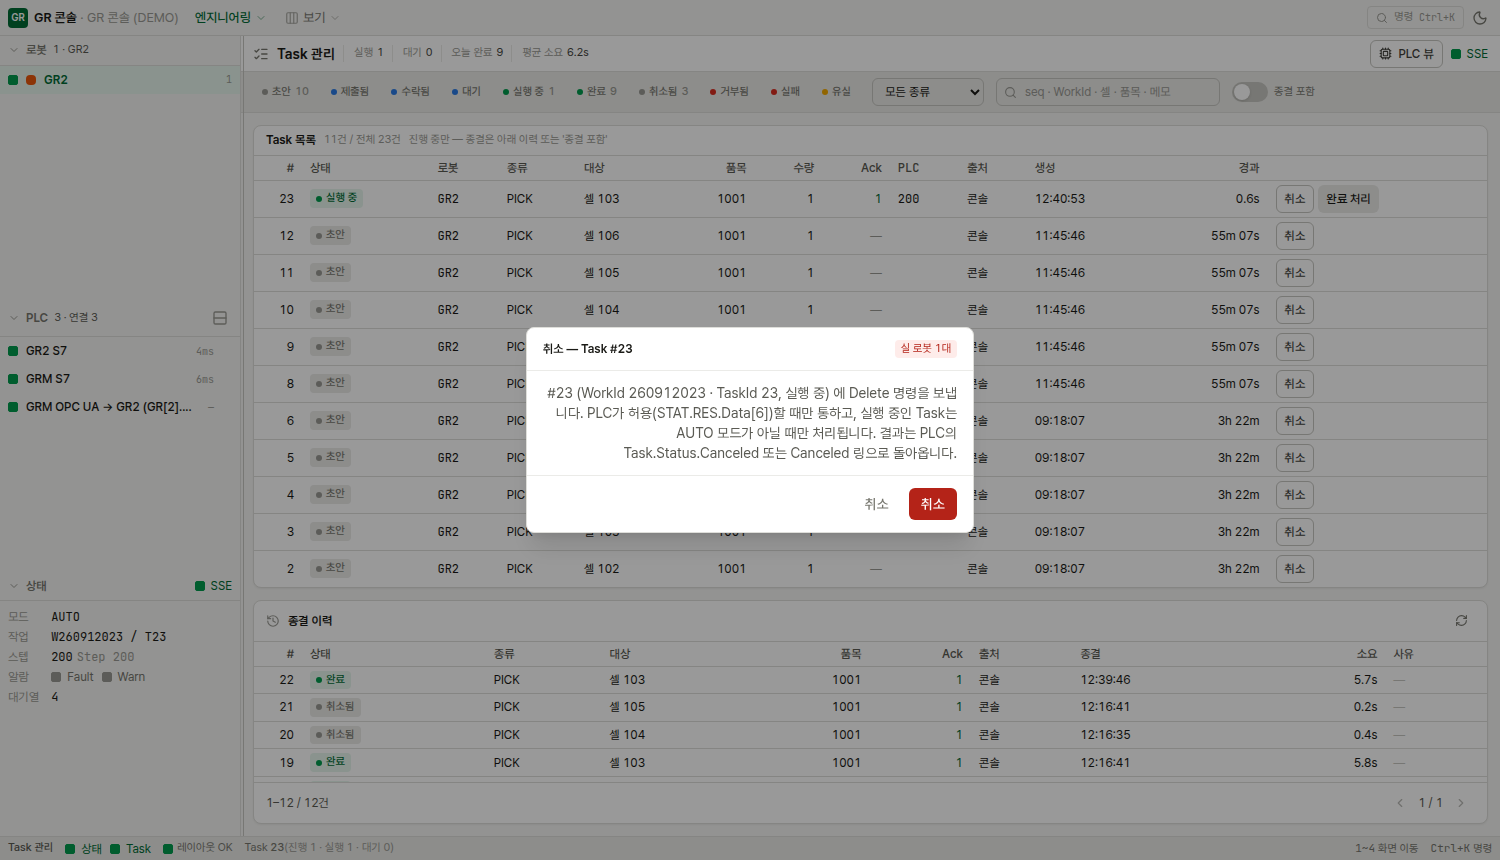
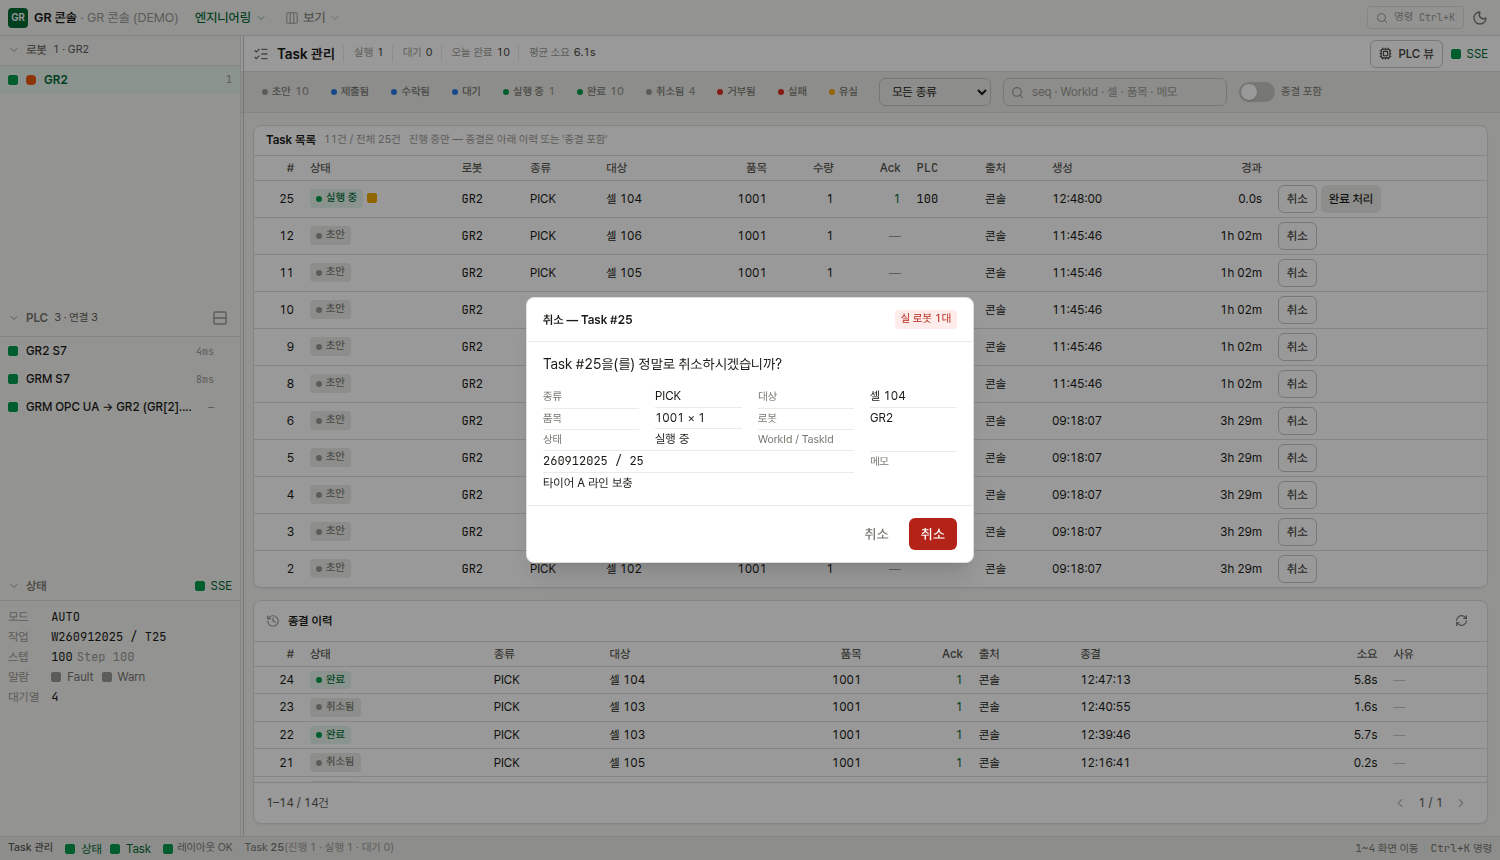
확인 대화상자 — 질문 한 줄 + 어떤 Task인지 알아볼 라벨+값
안내문("PLC가 허용할 때만… AUTO 모드가 아닐 때만…")을 뺐다 — 매번 읽지 않는 규칙 설명이
진짜 정보(무엇을·되돌릴 수 있나)를 묻는다. 막히면 서버가 409로 이유를 말하고 토스트가
보여 준다. 대신 번호만 있던 질문 아래에 종류·대상·품목·로봇·상태·WorkId/TaskId·메모를
FieldList로 붙였다 — 작업자가 무슨 작업인지 알아보고 누른다.

- 텍스트가 오른쪽에 붙던 것: 표의 액션 열(text-right) 안에서 열린 대화상자가 정렬을
  물려받았다. ConfirmDialog가 text-left를 갖는다(어디서 열렸든 제 정렬).
- DESIGN.md 자리 표에 "확인 대화상자" 줄(질문 한 줄 + 대상 식별, 규칙 안내문 금지),
  ui-ux-plan 10차.

Claude-Session: https://claude.ai/code/session_011b3u36fz4wQ2544xtQUSrM

diff --git a/apps/gr-web/src/components/taskmgr/TaskActions.tsx b/apps/gr-web/src/components/taskmgr/TaskActions.tsx
@@ -4,6 +4,7 @@ import { useState } from 'react'
 import { Ban, CheckCircle2, RotateCw, Send, Trash2, XOctagon } from 'lucide-react'
 import { Button } from '../../lib/ui/Button'
 import { ConfirmDialog } from '../../lib/ui/ConfirmDialog'
+import { FieldList, type FieldItem } from '../../lib/ui/FieldList'
 import { Input } from '../../lib/ui/Input'
 import { runAction } from '../../lib/task/actions'
 import {
@@ -11,6 +12,8 @@ import {
   STATE_LABEL,
   allowedActions,
   isRobotAction,
+  targetOf,
+  typeName,
   type TaskAction,
 } from '../../lib/task/state'
 import type { Task } from '../../lib/types'
@@ -39,24 +42,57 @@ const ICON: Record<TaskAction, React.ReactNode> = {
 
 const DANGER: ReadonlySet<TaskAction> = new Set<TaskAction>(['cancel', 'fail', 'delete'])
 
+// 확인은 **질문 한 줄**이다. PLC 허용 조건·AUTO 모드 같은 규칙은 여기 적지 않는다 — 막히면 서버가
+// 그 이유를 토스트로 말하고, 매번 읽지 않는 안내문은 진짜 경고(되돌릴 수 없음)까지 묻어 버린다.
 function describe(action: TaskAction, task: Task): string {
-  const who = `#${task.seq} (WorkId ${task.work_id} · TaskId ${task.task_id}, ${STATE_LABEL[task.state]})`
+  const who = `Task #${task.seq}`
   switch (action) {
     case 'submit':
-      return `${who} 을(를) PLC에 제출합니다.`
+      return `${who}을(를) PLC에 제출하시겠습니까?`
     case 'cancel':
       return task.state === 'draft'
-        ? `${who} 초안을 폐기합니다.`
-        : `${who} 에 Delete 명령을 보냅니다. PLC가 허용(STAT.RES.Data[6])할 때만 통하고, 실행 중인 Task는 AUTO 모드가 아닐 때만 처리됩니다. 결과는 PLC의 Task.Status.Canceled 또는 Canceled 링으로 돌아옵니다.`
+        ? `${who} 초안을 폐기하시겠습니까?`
+        : `${who}을(를) 정말로 취소하시겠습니까?`
     case 'complete':
-      return `${who} 에 Complete 명령을 보내 강제로 완료 처리합니다. PLC가 허용(STAT.RES.Data[5])할 때만 통합니다.`
+      return `${who}을(를) 강제로 완료 처리하시겠습니까?`
     case 'resubmit':
-      return `${who} 과 같은 내용으로 새 Task를 만들어 제출합니다(WorkId/TaskId는 새로 받습니다).`
+      return `${who}과(와) 같은 내용으로 다시 제출하시겠습니까?`
     case 'fail':
-      return `${who} 을(를) 콘솔 원장에서 실패로 표시합니다. PLC에는 아무것도 보내지 않습니다.`
+      return `${who}을(를) 실패로 표시하시겠습니까?`
     case 'delete':
-      return `${who} 기록을 원장에서 지웁니다. 되돌릴 수 없습니다.`
+      return `${who} 기록을 정말로 삭제하시겠습니까? 되돌릴 수 없습니다.`
   }
+}
+
+/**
+ * 어떤 Task인지 알아보는 라벨+값 짝 — 질문 한 줄 아래에 선다. 번호만으로는 작업자가 "무슨 작업"인지
+ * 모른다(같은 셀·같은 품목의 Task가 열 개 줄지어 있다). 상세와 같은 말(종류·대상·품목·로봇)을 쓴다.
+ */
+function identity(task: Task): FieldItem[] {
+  const t = targetOf(task)
+  const item = task.plc_task?.Item
+  const req = task.request
+  return [
+    { label: '종류', value: typeName(task.plc_task?.TaskType) || req?.type?.toUpperCase() || null },
+    { label: '대상', value: t ? `${t.kind === 'station' ? '스테이션' : '셀'} ${t.id}` : null },
+    {
+      label: '품목',
+      value: item?.Code
+        ? `${item.Code} × ${item.Count ?? 1}`
+        : req?.item_code
+          ? `${req.item_code} × ${req.count ?? 1}`
+          : null,
+    },
+    { label: '로봇', value: task.plc_name ?? null },
+    { label: '상태', value: STATE_LABEL[task.state] },
+    {
+      label: 'WorkId / TaskId',
+      value: task.work_id ? `${task.work_id} / ${task.task_id}` : null,
+      mono: true,
+      wide: true,
+    },
+    ...(req?.note ? [{ label: '메모', value: req.note, wide: true } as FieldItem] : []),
+  ]
 }
 
 export function TaskActions({
@@ -116,7 +152,8 @@ export function TaskActions({
           confirmLabel={ACTION_LABEL[pending]}
           onConfirm={() => void run(pending)}
         >
-          <p className="m-0">{describe(pending, task)}</p>
+          <p className="m-0 text-content-primary">{describe(pending, task)}</p>
+          <FieldList className="mt-3" items={identity(task)} columns={2} labelWidth={96} dense />
           {pending === 'fail' ? (
             <Input
               className="mt-3"

diff --git a/apps/gr-web/src/lib/ui/ConfirmDialog.tsx b/apps/gr-web/src/lib/ui/ConfirmDialog.tsx
@@ -88,7 +88,9 @@ export function ConfirmDialog({
       {/* 포커스 트랩 — 첫 포커스는 **취소**(안전한 쪽)다. 확인에 주면 Enter 연타로 파괴적 조작이 통과한다. */}
       <div
         ref={box}
-        className="relative w-full max-w-md rounded-lg border border-line-default bg-surface-panel shadow-xl"
+        // `text-left`: 대화상자는 어디서 열렸든 제 정렬을 가진다 — 표의 액션 열(`text-right`) 안에서
+        // 열리면 물려받은 정렬로 질문이 오른쪽에 붙는다.
+        className="relative w-full max-w-md rounded-lg border border-line-default bg-surface-panel text-left shadow-xl"
         role="dialog"
         aria-modal="true"
         aria-label={title}

diff --git a/docs/DESIGN.md b/docs/DESIGN.md
@@ -273,6 +273,7 @@ MANUAL`). 회색 문장으로 풀어 쓰면 필요한 항목 하나를 뽑으려
 | **목록 행**(사이드바 · 패널) | 점(앞) · 이름 · 숫자(뒤, 고정폭) | 캡슐 · 개수 알약 · 두 번째 색 |
 | **상태바** | 전역 상태 · 집계 · 단축키 힌트 | 조작 — **예외 하나**: 보이는 패널을 누르면 배치 명령이 열린다 |
 | **오버레이**(모달·팝오버·토스트) | 한 번에 한 가지 일 | 두 번째 모달 · 실시간 값 · 스크롤되는 폼 |
+| **확인 대화상자**(`ConfirmDialog`) | **질문 한 줄**("정말로 취소하시겠습니까?") + 대상을 알아볼 라벨+값 짝(종류·대상·품목·로봇·상태·Id) + 되돌릴 수 없으면 그 한마디 | 규칙·조건 안내문(PLC 허용 조건 · 모드 제약 — 막히면 서버가 이유를 말한다) · 오른쪽 정렬 · 번호만 있는 질문 |
 | **빈 영역** | `EmptyState`(아이콘 1 + 한 줄 + 다음 행동) | 로고 · 일러스트 · 그라디언트 · "환영합니다" |
 
 새 요소를 어디에 둘지 모르겠으면 그건 **아직 자리가 없다는 뜻**이다. 억지로 끼우지 말고 이 표에

diff --git a/docs/screenshots/README.md b/docs/screenshots/README.md
@@ -72,5 +72,5 @@
 | ![](51_cancel_timeline.png) | Task 취소 — 이력이 `delete requested`(콘솔) → `canceled on PLC (console request)`(PLC)로 읽힌다. PLC 자발 취소는 `(console request)`가 없다 |
 | ![](52_plc_view_terminal_bits.png) | PLC 뷰 — `Task.Status.Complete`·`Canceled` 비트가 보인다. 원장은 링보다 이 비트로 먼저 끝낸다 |
 | ![](53_row_actions.png) | Task 목록의 행 액션 — 취소·완료 처리 둘만, 오른쪽 끝 열의 글자 버튼. 상태가 허용하는 것만 선다(초안은 취소뿐) |
-| ![](54_row_action_confirm.png) | 행에서 눌러도 같은 확인 대화상자(`실 로봇 1대`)를 거친다 — 상세와 한 코드 경로 |
+| ![](54_row_action_confirm.png) | 확인 대화상자 — **질문 한 줄** + 어떤 Task인지 알아볼 라벨+값 짝(종류·대상·품목·로봇·상태·Id·메모). 규칙 안내문은 없다 |
 | ![](42_view_menu_fixed.png) | `보기` 메뉴 — 라벨이 줄어들지 않고 힌트가 먼저 잘린다(예전에는 `명령 중 / 심`으로 끊겼다) |
